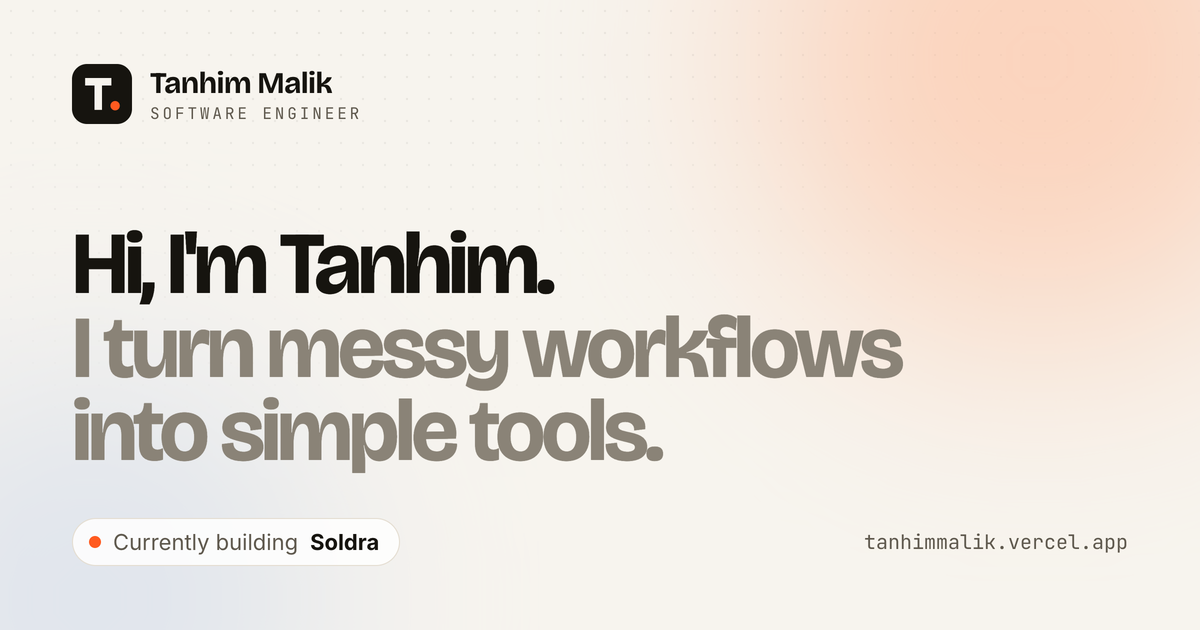
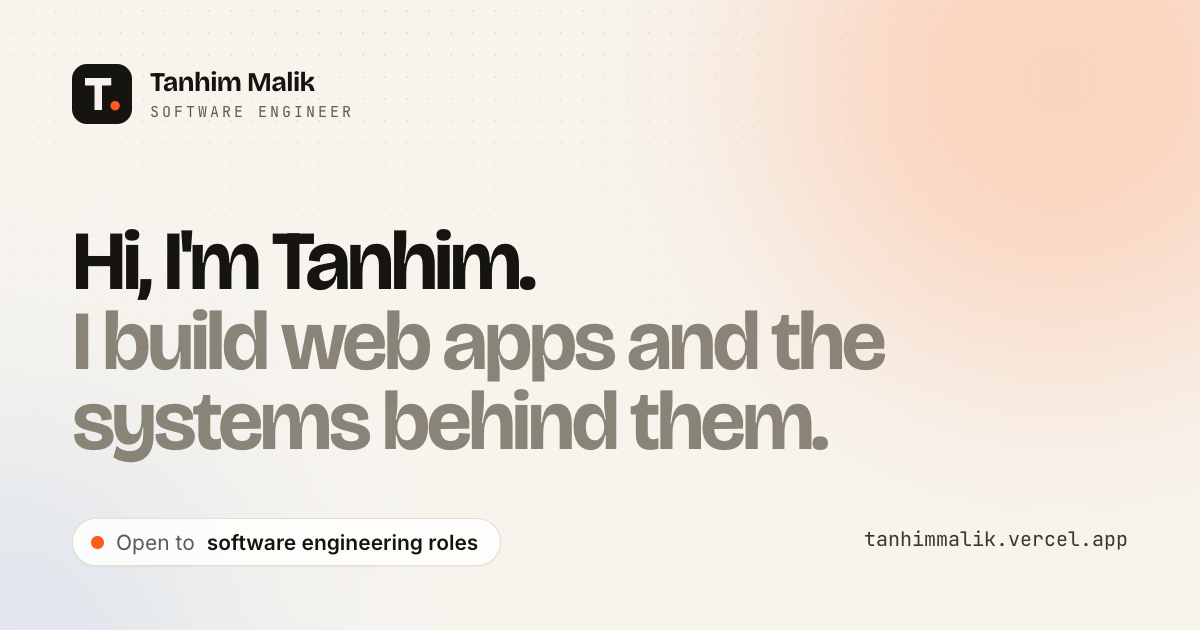
update hero tagline

diff --git a/index.html b/index.html
@@ -17,7 +17,7 @@
     <title>Tanhim Malik — Software Engineer</title>
     <meta
       name="description"
-      content="Tanhim Malik is a software engineer who has built developer tooling at Tripadvisor and trading-desk apps at Jefferies, and is now building Soldra, a profit and tax tracker for online resellers."
+      content="Tanhim Malik is a software engineer who builds web apps and the systems behind them. Previously built developer tooling at Tripadvisor and trading-desk apps at Jefferies."
     />
 
     <!-- Open Graph -->
@@ -26,7 +26,7 @@
     <meta property="og:title" content="Tanhim Malik — Software Engineer" />
     <meta
       property="og:description"
-      content="I turn messy workflows into simple tools. Previously at Tripadvisor and Jefferies, now building Soldra."
+      content="I build web apps and the systems behind them. Previously at Tripadvisor and Jefferies."
     />
     <meta property="og:image" content="https://tanhimmalik.vercel.app/og-image.png" />
     <meta property="og:image:width" content="1200" />
@@ -37,7 +37,7 @@
     <meta name="twitter:title" content="Tanhim Malik — Software Engineer" />
     <meta
       name="twitter:description"
-      content="I turn messy workflows into simple tools. Previously at Tripadvisor and Jefferies, now building Soldra."
+      content="I build web apps and the systems behind them. Previously at Tripadvisor and Jefferies."
     />
     <meta name="twitter:image" content="https://tanhimmalik.vercel.app/og-image.png" />
   </head>

diff --git a/src/components/Hero.tsx b/src/components/Hero.tsx
@@ -40,7 +40,7 @@ export function Hero() {
         <h1 className="mt-8 max-w-5xl text-[clamp(2.75rem,7vw,5.75rem)] leading-[0.95] font-bold tracking-[-0.045em]">
           <Words text={`Hi, I'm ${profile.firstName}.`} start={0} />{' '}
           <span className="block text-faint">
-            <Words text="I turn messy workflows into simple tools." start={3} />
+            <Words text="I build web apps and the systems behind them." start={3} />
           </span>
         </h1>
 
